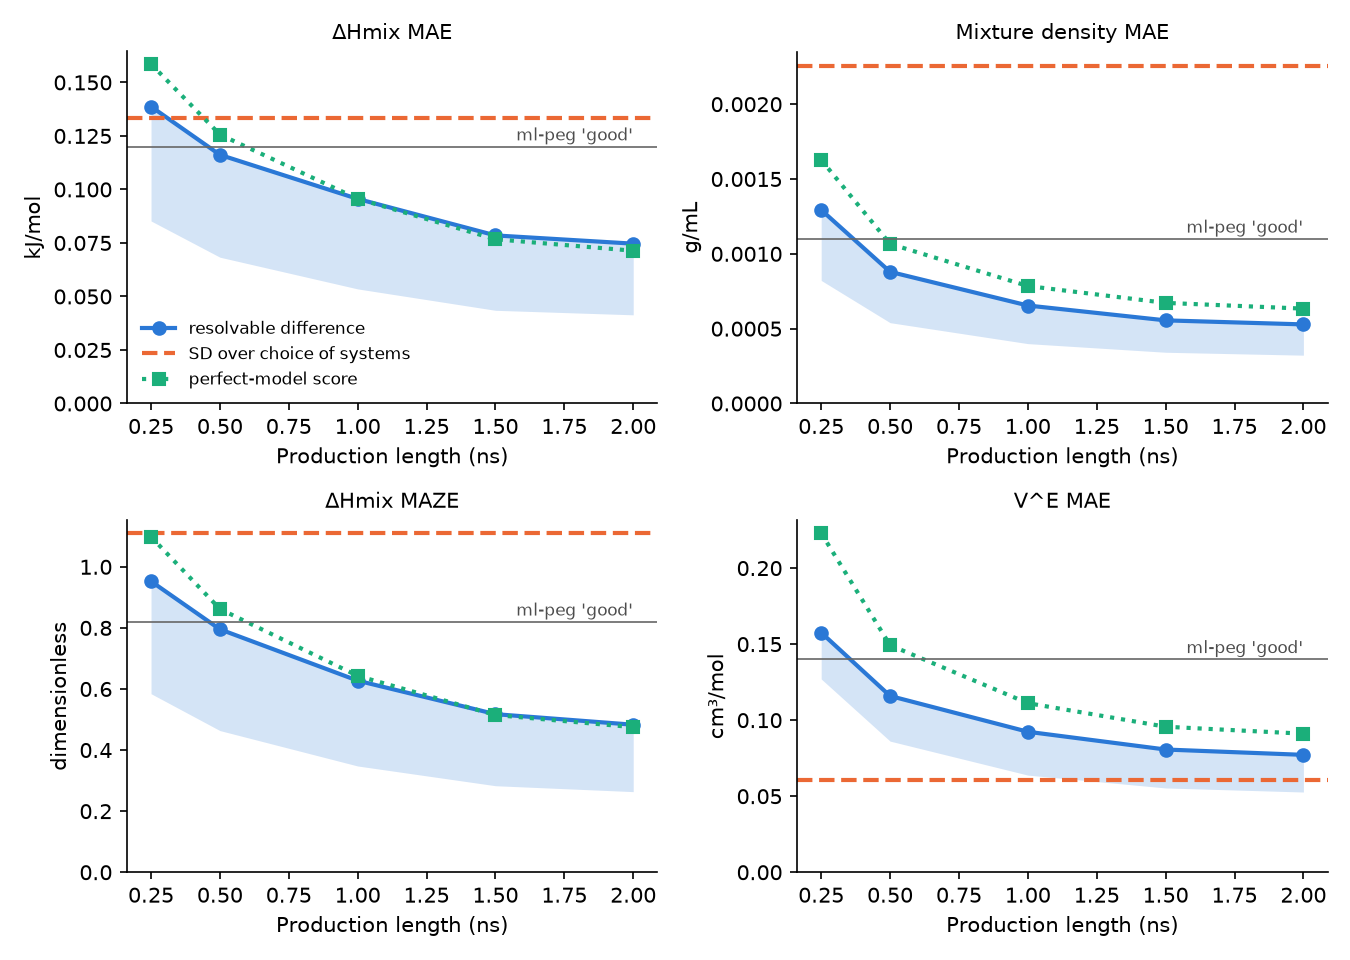
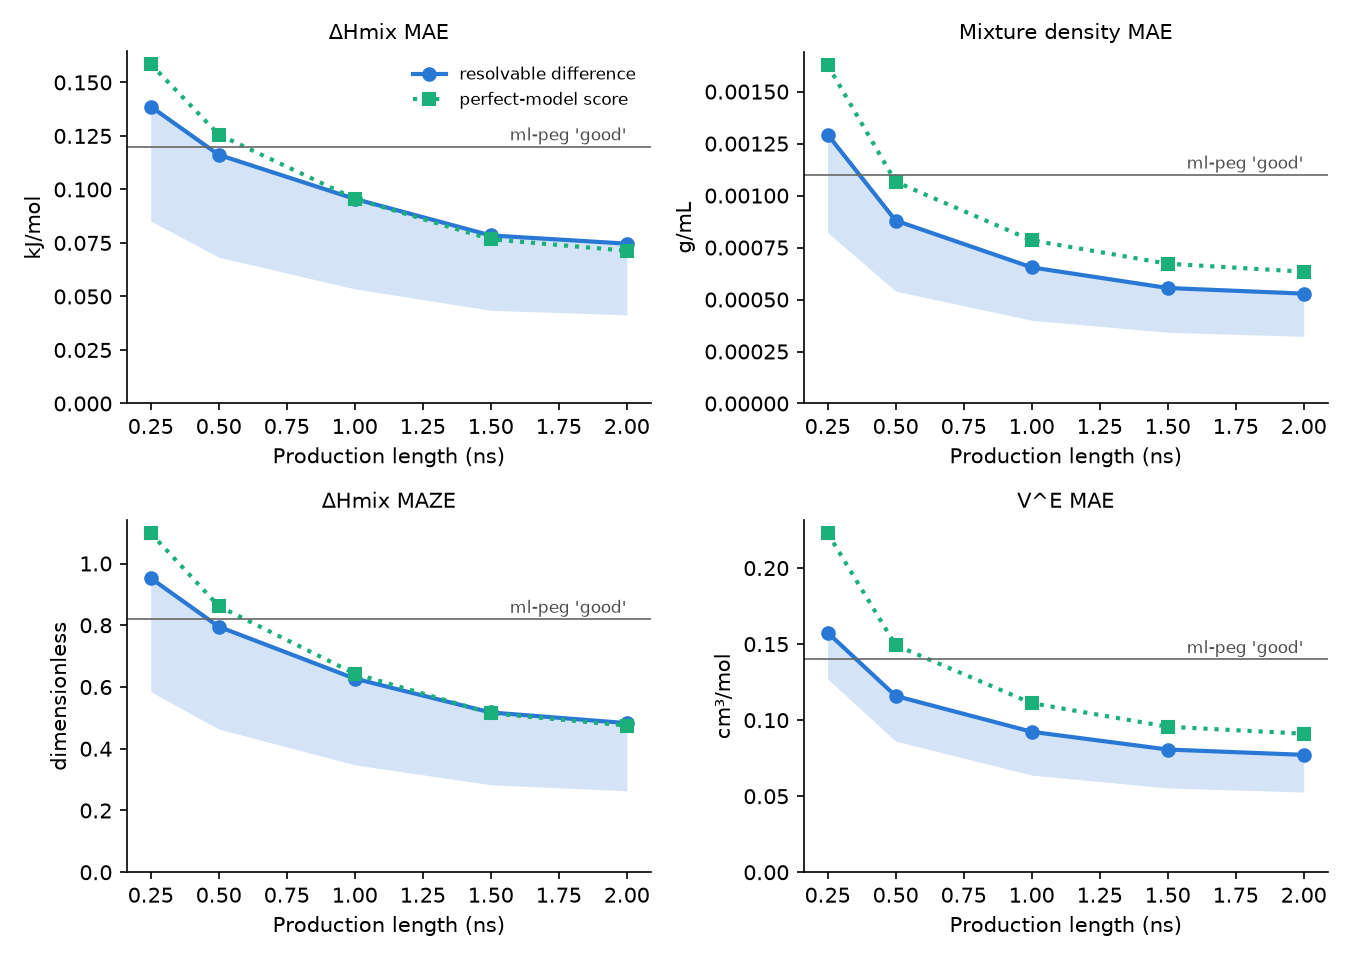
Drop the system-choice spread as an argument for comparing models
Models are compared on the same systems, so the spread of one model's
score over the choice of systems largely cancels in the gap between two
models. Justify the 1 ns protocol on cost and resolution instead.

diff --git a/src/liquid_mixtures_inputs/power_report.py b/src/liquid_mixtures_inputs/power_report.py
@@ -302,15 +302,10 @@ def write_summary(out: Path, tables: dict) -> None:
         The tables named in :func:`write_reports`.
     """
     metrics, points = tables["metrics"], tables["points"]
-    bootstrap = tables["bootstrap"].set_index(["property", "metric"])
     reference = REFERENCE[1]
     cost = costs(tables["n_atoms"])
     hmix_low, hmix_high = resolvable_range(metrics, "hmix", "MAE", reference)
     density_low, density_high = resolvable_range(metrics, "density", "MAE", reference)
-    hmix_sd = metric_value(metrics, "hmix", "MAE", reference, 1.0, "sd")
-    hmix_systems = float(bootstrap.loc[("hmix", "MAE"), "bootstrap_sd"])
-    density_sd = metric_value(metrics, "density", "MAE", reference, 1.0, "sd")
-    density_systems = float(bootstrap.loc[("density", "MAE"), "bootstrap_sd"])
     hmix_points = point_rows(points, "hmix", reference)
     density_points = point_rows(points, "density", reference)
     saved = 1 - allocation_cost(tables["allocation"]) / cost[reference]
@@ -354,12 +349,6 @@ def write_summary(out: Path, tables: dict) -> None:
         "points). "
         f"{(hmix_points.sage_error.abs() > hmix_points.mde).mean():.0%} of Sage's "
         "ΔHmix errors are larger.",
-        "- **The choice of systems matters more than noise.** Between repeat "
-        f"benchmark runs, a model's ΔHmix MAE moves by {hmix_sd:.3f} kJ/mol (SD). "
-        f"Picking a different 13 systems moves Sage's by {hmix_systems:.2f} "
-        f"kJ/mol, {hmix_systems / hmix_sd:.0f}× more "
-        f"({density_systems / density_sd:.0f}× for density). Longer runs cannot "
-        "reduce this.",
         f"- **Cost.** {tables['n_atoms'].sum():,.0f} atoms over 64 boxes, about "
         f"{gpu_days(cost[reference]):.0f} MACE-OFF23(M) A100 GPU-days per model "
         f"(order of magnitude). {longer} would cost "
@@ -370,15 +359,18 @@ def write_summary(out: Path, tables: dict) -> None:
         f"{resolvable_range(metrics, 'hmix', 'MAE', ALTERNATIVE_PS)[1]:.3f} "
         f"kJ/mol. Per-box run lengths would save only {saved:.0%}.",
         "",
-        f"We run {protocol} for cost. The extra precision of {longer} is small "
-        "next to the spread over the choice of systems. Equilibration stays at "
+        f"We run {protocol} for cost: it already resolves density gaps far "
+        f"smaller than those between published MLPs, and {longer} would narrow "
+        "the resolvable ΔHmix MAE difference by only "
+        f"{1 - resolvable_range(metrics, 'hmix', 'MAE', ALTERNATIVE_PS)[1] / hmix_high:.0%}"
+        f" for {cost[ALTERNATIVE_PS] / cost[reference]:.1f}× the cost. "
+        "Equilibration stays at "
         f"{REFERENCE[0] / 1000:g} ns ([details](details.md#4-run-length-and-cost)).",
         "",
         "![resolvable difference](figures/resolvable.png)",
         "",
         "Blue: resolvable difference for a Sage-like error profile (band: 1 to 0 "
-        "× Sage's errors). Orange: SD of Sage's metric over the choice of systems. "
-        "Green: the score a model that matches experiment exactly gets from noise "
+        "× Sage's errors). Green: the score a model that matches experiment exactly gets from noise "
         "alone. Grey: the 'good' threshold.",
         "",
         "## Thresholds",

diff --git a/src/liquid_mixtures_inputs/power_analysis.py b/src/liquid_mixtures_inputs/power_analysis.py
@@ -16,8 +16,8 @@ correlated across points) to give, per run length:
 - the smallest error against experiment a single point can detect;
 - the noise in each benchmark metric (MAE, MAZE) and the smallest
   difference between two models it can resolve;
-- the spread of the metric over the choice of systems (cluster bootstrap), for
-  comparison;
+- the spread of Sage's metric over the choice of systems (cluster bootstrap),
+  which shows how far a score depends on this set of systems;
 - a GPU-time allocation across boxes that keeps the metric noise of uniform
   runs of the protocol length at a lower cost;
 - ml-peg's 'good' and 'bad' thresholds (``thresholds.csv`` and
@@ -994,7 +994,6 @@ def plot_noise_scaling(noise: pd.DataFrame, path: Path) -> None:
 
 def plot_resolvable(
     metrics: pd.DataFrame,
-    bootstrap: pd.DataFrame,
     threshold_table: pd.DataFrame,
     path: Path,
 ) -> None:
@@ -1002,15 +1001,12 @@ def plot_resolvable(
     Plot the resolvable metric difference against production length.
 
     One panel per metric. The line is the Sage-like error profile, the band
-    spans all profiles; dashed is the system-bootstrap SD of Sage's metric and
-    dotted the observed metric of a perfect model.
+    spans all profiles; dotted is the observed metric of a perfect model.
 
     Parameters
     ----------
     metrics
         ``metrics`` table from :func:`analyse`.
-    bootstrap
-        ``bootstrap`` table from :func:`analyse`.
     threshold_table
         Output of :func:`thresholds`.
     path
@@ -1038,14 +1034,6 @@ def plot_resolvable(
             lw=2,
             ms=6,
             label="resolvable difference",
-        )
-        boot = bootstrap[(bootstrap.property == prop) & (bootstrap.metric == label)]
-        ax.axhline(
-            float(boot.bootstrap_sd.iloc[0]),
-            color=COLORS[1],
-            lw=2,
-            ls="--",
-            label="SD over choice of systems",
         )
         floor = rows[rows.profile == 0.0].set_index("production_ps").observed_mean
         ax.plot(
@@ -1157,7 +1145,6 @@ def main() -> None:
     plot_noise_scaling(noise, figures / "noise_scaling.png")
     plot_resolvable(
         results["metrics"],
-        results["bootstrap"],
         threshold_table,
         figures / "resolvable.png",
     )

diff --git a/data/power_analysis/report.md b/data/power_analysis/report.md
@@ -8,14 +8,13 @@ ml-peg runs every MLP once per box: 0.2 ns of NPT equilibration and 1 ns of prod
 
 - **Between models.** Two models are told apart (two-sided 5 % test, 80 % power) when their ΔHmix MAE differs by 0.05 to 0.096 kJ/mol, or their mixture density MAE by 0.0004 to 0.0007 g/mL. Published MLPs differ in pure-liquid density MAE by about 0.05 to 0.25 g/mL, about 80 to 400× more.
 - **Against experiment.** One run per box detects an error at a single point above 0.31 kJ/mol for ΔHmix and 0.0028 g/mL for density (median over points). 62% of Sage's ΔHmix errors are larger.
-- **The choice of systems matters more than noise.** Between repeat benchmark runs, a model's ΔHmix MAE moves by 0.024 kJ/mol (SD). Picking a different 13 systems moves Sage's by 0.13 kJ/mol, 6× more (14× for density). Longer runs cannot reduce this.
 - **Cost.** 104,076 atoms over 64 boxes, about 189 MACE-OFF23(M) A100 GPU-days per model (order of magnitude). 0.2 + 2 ns would cost 1.8× as much (about 158 GPU-days more) and narrow the resolvable ΔHmix MAE difference from 0.096 to 0.075 kJ/mol. Per-box run lengths would save only 13%.
 
-We run 0.2 + 1 ns for cost. The extra precision of 0.2 + 2 ns is small next to the spread over the choice of systems. Equilibration stays at 0.2 ns ([details](details.md#4-run-length-and-cost)).
+We run 0.2 + 1 ns for cost: it already resolves density gaps far smaller than those between published MLPs, and 0.2 + 2 ns would narrow the resolvable ΔHmix MAE difference by only 22% for 1.8× the cost. Equilibration stays at 0.2 ns ([details](details.md#4-run-length-and-cost)).
 
 ![resolvable difference](figures/resolvable.png)
 
-Blue: resolvable difference for a Sage-like error profile (band: 1 to 0 × Sage's errors). Orange: SD of Sage's metric over the choice of systems. Green: the score a model that matches experiment exactly gets from noise alone. Grey: the 'good' threshold.
+Blue: resolvable difference for a Sage-like error profile (band: 1 to 0 × Sage's errors). Green: the score a model that matches experiment exactly gets from noise alone. Grey: the 'good' threshold.
 
 ## Thresholds
 

diff --git a/DECISIONS.md b/DECISIONS.md
@@ -42,7 +42,7 @@ The rules are implemented in `src/liquid_mixtures_inputs/` and listed in [select
 
 - **Box size.** Edge ≥ 25 Å, ≥ 100 molecules and ≥ 20 of the minority component (952 to 2,800 atoms). Half of a 21.5 Å box is below the ~12 Å receptive field of a 2-layer, 6 Å MLP, precision per GPU-hour does not depend on box size, and 1000-molecule boxes would cost 10 to 15× more. Sage results in our boxes match the published 1000-molecule runs ([Sage report](data/sage_summary/report.md#box-size)).
 - **Box build.** Packed at the experimental density with Sage 2.3.0, each molecule starting from the lowest-MMFF of 10 ETKDG conformers, annealed (450 K cooled to T over 1.6 ns) and equilibrated for 500 ps NVT. The first Sage runs showed slow conformer equilibria (tetrahydropyran, DCE, DMAE) and dependence on the starting conformer.
-- **Protocol.** One run per model and box: 0.2 ns NPT equilibration and 1 ns production, for cost: 0.2 + 2 ns would cost 1.8× as much (about 190 against 350 MACE-OFF23(M) A100 GPU-days per model) and only narrow the resolvable ΔHmix MAE difference from 0.096 to 0.075 kJ/mol, small next to the spread over the choice of systems (0.13 kJ/mol). Equilibration stays at 0.2 ns, as the 100 to 200 ps window is still shifted for Sage ([power analysis](data/power_analysis/report.md)).
+- **Protocol.** One run per model and box: 0.2 ns NPT equilibration and 1 ns production, for cost: 0.2 + 2 ns would cost 1.8× as much (about 190 against 350 MACE-OFF23(M) A100 GPU-days per model) and only narrow the resolvable ΔHmix MAE difference from 0.096 to 0.075 kJ/mol, while 1 ns already resolves density gaps far smaller than those between published MLPs. Equilibration stays at 0.2 ns, as the 100 to 200 ps window is still shifted for Sage ([power analysis](data/power_analysis/report.md)).
 - **One estimator** for Sage and the MLPs: ml-peg's `timeseries.py` (autocorrelation) on every logged sample, without binning.
 
 ### Sage reference

diff --git a/README.md b/README.md
@@ -18,7 +18,6 @@ Every decision, with its reason and history, is in [DECISIONS.md](DECISIONS.md).
 ## Outcomes
 
 - **Resolution.** With one 0.2 + 1 ns run per box, two models are resolved (5 % test, 80 % power) when their ΔHmix MAE differs by 0.05 to 0.096 kJ/mol or their mixture density MAE by 0.0004 to 0.0007 g/mL. A single point detects an error above about 0.31 kJ/mol (ΔHmix) or 0.0028 g/mL (density). ([power analysis](data/power_analysis/report.md))
-- **Noise against the choice of systems.** Repeat runs move a model's ΔHmix MAE by 0.024 kJ/mol (SD); choosing different systems moves it by 0.13 kJ/mol, 6× more. ([power analysis](data/power_analysis/report.md))
 - **Cost.** 104,076 atoms over 64 boxes, about 190 MACE-OFF23(M) A100 GPU-days per model (order of magnitude). 0.2 + 2 ns would cost 1.8× as much (347 GPU-days) and narrow the resolvable ΔHmix MAE difference for a model with Sage-sized errors from 0.096 to 0.075 kJ/mol. ([details](data/power_analysis/details.md#4-run-length-and-cost))
 - **Sage 2.3.0 against experiment.** ΔHmix MAE 0.55 kJ/mol (MAZE 4.1), mixture density MAE 0.0086 g/mL (MAZE 8.7), V^E MAE 0.22 cm³/mol (MAZE 1.6). Single 1 ns Sage runs understate their own standard errors by 19 % (h) and 11 % (density). ([Sage report](data/sage_summary/report.md))
 - **Thresholds.** For example ΔHmix MAZE good 0.82, bad 20; all eight metrics are in [thresholds.csv](data/power_analysis/thresholds.csv), with a ready-to-paste [metrics_snippet.yml](data/power_analysis/metrics_snippet.yml).
